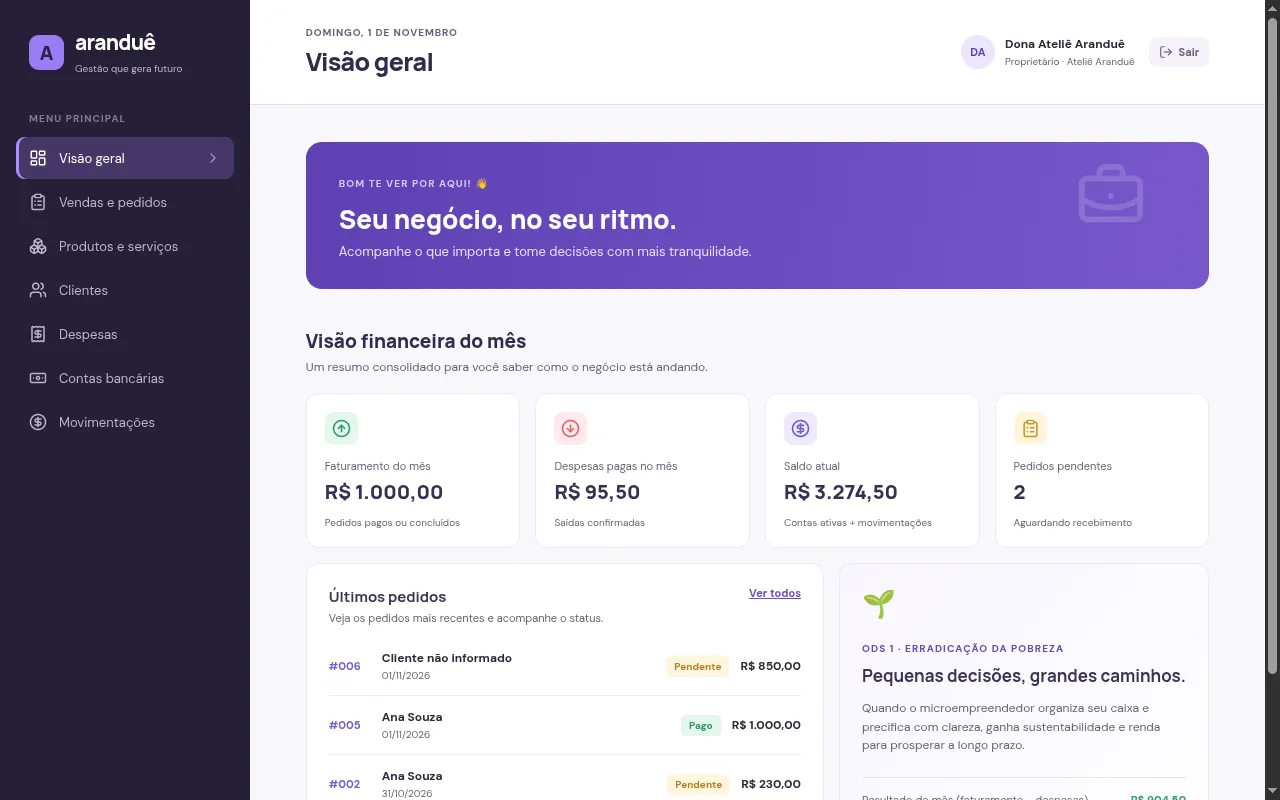
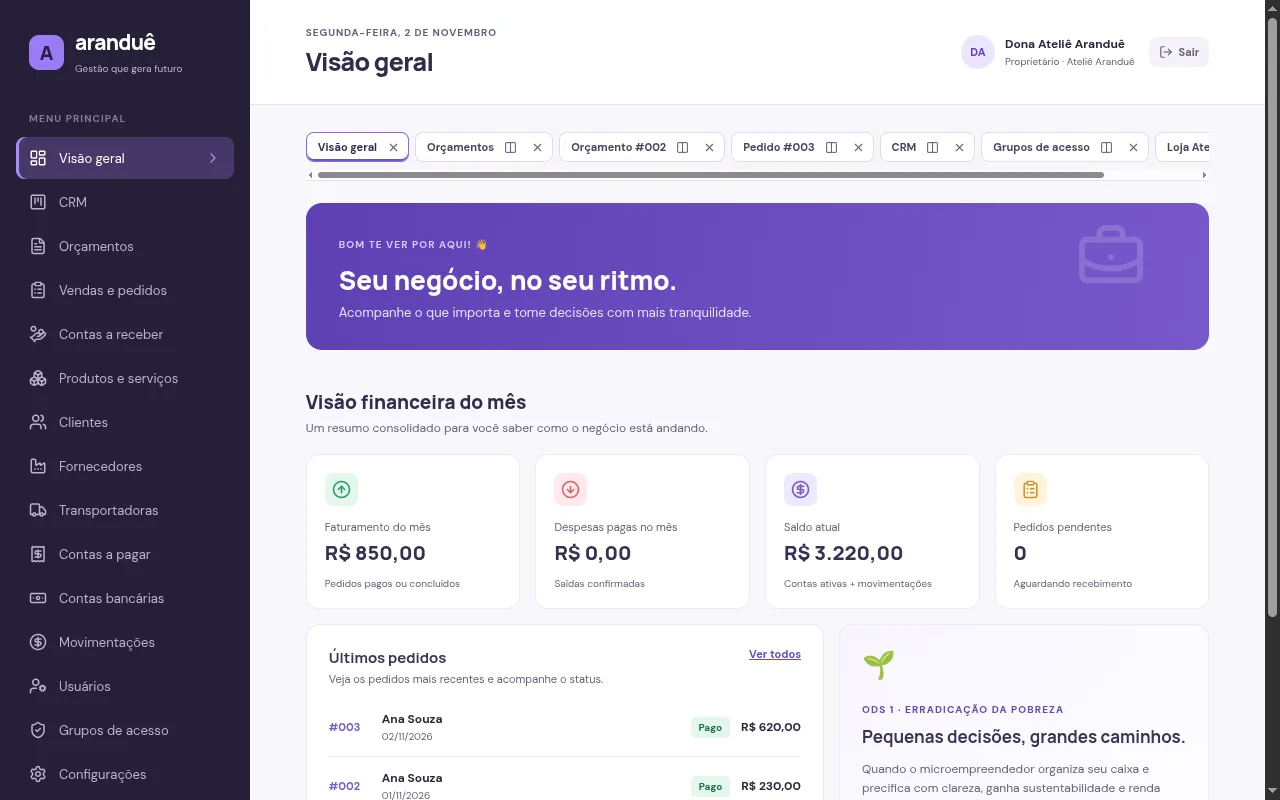
feat: vitrine do Aranduê atualizada para a v2.1 com novas telas
- Sete capturas novas (visão geral, telas lado a lado, menu de ações, CRM,
  grupos de acesso, cadastro de pessoas e celular), com dados fictícios.
- Funcionalidades, números de qualidade (55 testes, acessibilidade 100,
  ~121 KB de JS inicial) e próximas versões atualizados.

diff --git a/projetos/arandue.html b/projetos/arandue.html
@@ -5,7 +5,7 @@
     <meta name="viewport" content="width=device-width, initial-scale=1.0" />
     <meta
       name="description"
-      content="Aranduê: SaaS de gestão para MEIs com vendas, estoque, clientes e caixa, multiempresa e controle de acesso por papel."
+      content="Aranduê: SaaS de gestão para MEIs com orçamentos, vendas, estoque, financeiro, CRM e cadastro de pessoas, multiempresa e com permissões por ação."
     />
     <title>Aranduê · Portfólio Nabor N Silva</title>
     <link rel="shortcut icon" href="../img/favicon.ico" type="image/x-icon" />
@@ -23,12 +23,13 @@
     >
 
     <header class="hero">
-      <p class="eyebrow">Projeto 02 · SaaS full-stack · Em desenvolvimento</p>
+      <p class="eyebrow">Projeto 02 · SaaS full-stack · v2.1 · em evolução contínua</p>
       <h1>Aranduê</h1>
       <p class="lead">
-        Gestão simples para microempreendedores individuais: vendas, estoque,
-        clientes e caixa em um só lugar, com dados isolados por empresa e
-        acesso de acordo com o papel de cada pessoa.
+        Gestão para microempreendedores individuais: orçamentos, vendas,
+        estoque, financeiro, CRM e cadastro de clientes e fornecedores em um só
+        lugar, com dados isolados por empresa e permissões ajustadas a cada
+        pessoa da equipe.
       </p>
       <p class="selo">
         <span aria-hidden="true">🌱</span> Alinhado ao ODS 1 — Erradicação da
@@ -49,27 +50,65 @@
       <section aria-labelledby="titulo-telas">
         <h2 id="titulo-telas">Telas</h2>
         <div class="galeria">
-          <figure class="galeria__principal">
+          <figure class="galeria__larga">
             <img
               src="../img/arandue/dashboard.webp"
-              alt="Visão geral do Aranduê com faturamento do mês, despesas pagas, saldo atual, pedidos pendentes e últimos pedidos."
+              alt="Visão geral do Aranduê com faturamento do mês, despesas pagas, saldo atual, pedidos pendentes e limite anual do MEI."
               width="1280"
               height="800"
               loading="lazy"
             />
-            <figcaption>Visão geral com o resumo financeiro do mês.</figcaption>
+            <figcaption>Visão geral com o resumo financeiro do mês e o acompanhamento do limite do MEI.</figcaption>
+          </figure>
+          <figure class="galeria__larga">
+            <img
+              src="../img/arandue/lado-a-lado.webp"
+              alt="Pedido e o orçamento que o originou abertos lado a lado, com abas das telas abertas no topo."
+              width="1280"
+              height="800"
+              loading="lazy"
+            />
+            <figcaption>Telas abertas viram abas; dá para trabalhar em duas lado a lado, como um pedido e o orçamento de origem.</figcaption>
           </figure>
           <figure>
             <img
-              src="../img/arandue/pedidos.webp"
-              alt="Lista de pedidos com cliente, data, itens, status editável e total."
+              src="../img/arandue/orcamentos.webp"
+              alt="Lista de orçamentos com status e o menu de ações aberto: abrir, aprovar, recusar, duplicar, copiar para pedido e excluir."
               width="1280"
               height="800"
               loading="lazy"
             />
-            <figcaption>
-              Pedidos com vários itens, baixa de estoque e status.
-            </figcaption>
+            <figcaption>Menu de ações que mostra só o que vale para o status e a permissão de cada pessoa.</figcaption>
+          </figure>
+          <figure>
+            <img
+              src="../img/arandue/crm.webp"
+              alt="Funil de vendas em colunas com leads, origem, responsável e próxima ação; ações atrasadas em destaque."
+              width="1280"
+              height="800"
+              loading="lazy"
+            />
+            <figcaption>CRM com funil de vendas, próxima ação e alerta de atraso.</figcaption>
+          </figure>
+          <figure>
+            <img
+              src="../img/arandue/permissoes.webp"
+              alt="Edição de um grupo de acesso com a matriz de permissões por área e por ação."
+              width="1280"
+              height="800"
+              loading="lazy"
+            />
+            <figcaption>Grupos de acesso com permissões por ação (ver, criar, aprovar, dar baixa...).</figcaption>
+          </figure>
+          <figure>
+            <img
+              src="../img/arandue/cadastro.webp"
+              alt="Cadastro de cliente pessoa jurídica com CNPJ, busca na Receita, papéis e contatos."
+              width="1280"
+              height="800"
+              loading="lazy"
+            />
+            <figcaption>Cadastro único de pessoas com busca de CNPJ e CEP.</figcaption>
           </figure>
           <figure class="galeria__celular">
             <img
@@ -91,7 +130,7 @@
           saber quanto entrou, quanto saiu e o que ainda falta receber, fica
           difícil precificar, planejar compras e crescer. O Aranduê reúne essas
           informações em uma interface pensada para quem não é da área de
-          tecnologia.
+          tecnologia, e acompanha o negócio quando ele ganha equipe.
         </p>
       </section>
 
@@ -99,40 +138,65 @@
         <h2 id="titulo-funcionalidades">O que já funciona</h2>
         <ul class="cartoes">
           <li>
+            <strong>Orçamento ao recebimento</strong>
+            <span
+              >Orçamento enviado, aprovado e convertido em pedido; o estoque
+              baixa e o recebimento entra no caixa.</span
+            >
+          </li>
+          <li>
+            <strong>Permissões sob medida</strong>
+            <span
+              >49 permissões por ação em grupos de acesso. Um vendedor pode
+              aprovar os próprios orçamentos enquanto só o financeiro dá
+              baixa.</span
+            >
+          </li>
+          <li>
+            <strong>CRM com funil</strong>
+            <span
+              >Leads por etapa, histórico de atendimentos por canal e lead
+              ganho virando cliente sem duplicar cadastro.</span
+            >
+          </li>
+          <li>
+            <strong>Cadastro único</strong>
+            <span
+              >Clientes, fornecedores e transportadoras num só cadastro, com
+              CPF/CNPJ validados e busca de CNPJ e CEP.</span
+            >
+          </li>
+          <li>
+            <strong>Área de trabalho com abas</strong>
+            <span
+              >Cada tela aberta vira uma aba que guarda o que foi digitado; duas
+              podem ficar lado a lado.</span
+            >
+          </li>
+          <li>
+            <strong>Financeiro</strong>
+            <span
+              >Contas a receber e a pagar, contas bancárias e caixa
+              sincronizado com pedidos e despesas.</span
+            >
+          </li>
+          <li>
             <strong>Multiempresa</strong>
             <span
-              >Cada negócio tem sua conta; os dados de uma empresa nunca
-              aparecem para outra.</span
+              >Os dados de uma empresa nunca aparecem para outra; numeração de
+              pedidos e orçamentos própria.</span
             >
           </li>
           <li>
-            <strong>Papéis de acesso</strong>
+            <strong>Limite do MEI</strong>
             <span
-              >Proprietário, vendedor e contador veem e fazem apenas o que lhes
-              cabe.</span
-            >
-          </li>
-          <li>
-            <strong>Vendas e estoque</strong>
-            <span
-              >Pedidos com vários itens baixam o estoque automaticamente e
-              nunca vendem a mesma unidade duas vezes.</span
-            >
-          </li>
-          <li>
-            <strong>Caixa sincronizado</strong>
-            <span
-              >Pedido pago e despesa paga entram no caixa sozinhos; o saldo
-              fica sempre coerente.</span
+              >O faturamento do ano é comparado com o limite informado pela
+              empresa.</span
             >
           </li>
           <li>
             <strong>Auditoria</strong>
             <span>Registro de quem alterou o quê e quando.</span>
-          </li>
-          <li>
-            <strong>Responsivo</strong>
-            <span>Funciona bem no computador e no celular.</span>
           </li>
         </ul>
       </section>
@@ -154,32 +218,38 @@
         </ul>
         <p>
           O backend concentra as regras de negócio em uma camada de serviços
-          que verifica a permissão e a empresa em toda operação. Os mesmos
-          schemas de validação são usados no navegador e no servidor.
+          que verifica a permissão do grupo e a empresa em toda operação. Os
+          mesmos schemas de validação e o mesmo catálogo de permissões são
+          usados no navegador e no servidor. Cada ação do sistema é definida
+          uma única vez e aparece onde faz sentido: listas, telas e, em breve,
+          busca rápida e atalhos.
         </p>
       </section>
 
       <section aria-labelledby="titulo-qualidade">
         <h2 id="titulo-qualidade">Segurança e qualidade</h2>
         <ul class="numeros">
-          <li><strong>20</strong><span>testes automatizados de integração</span></li>
-          <li><strong>100</strong><span>em acessibilidade no Lighthouse (celular)</span></li>
-          <li><strong>~116 KB</strong><span>de JavaScript inicial (gzip)</span></li>
+          <li><strong>55</strong><span>testes automatizados de integração</span></li>
+          <li><strong>100</strong><span>em acessibilidade no Lighthouse (celular e desktop)</span></li>
+          <li><strong>~121 KB</strong><span>de JavaScript inicial (gzip)</span></li>
         </ul>
         <ul class="lista">
           <li>Senhas com Argon2id e sessão em cookie seguro, revogada no logout.</li>
-          <li>Proteção contra CSRF e limite de tentativas no login.</li>
-          <li>Testes que garantem que uma empresa não acessa dados de outra.</li>
+          <li>Proteção contra CSRF e limite de tentativas no login e nas consultas externas.</li>
+          <li>Testes que garantem que uma empresa não acessa dados de outra e que ninguém concede permissões que não tem.</li>
+          <li>Consultas de CNPJ e CEP feitas pelo servidor: só o número sai do sistema.</li>
         </ul>
       </section>
 
       <section aria-labelledby="titulo-proximos">
-        <h2 id="titulo-proximos">Próximos passos</h2>
+        <h2 id="titulo-proximos">Próximas versões</h2>
         <ol class="roteiro">
-          <li><strong>Orçamentos e equipe:</strong> orçamento que vira pedido, fornecedores e gestão de usuários.</li>
-          <li><strong>CRM e indicadores:</strong> funil de leads e KPIs, como ticket médio e limite anual do MEI.</li>
-          <li><strong>Assistente de IA:</strong> chat de ajuda e bot no Telegram com confirmação antes de gravar.</li>
+          <li><strong>Oportunidades e rastreio:</strong> cada orçamento e pedido ligado à negociação que o originou, mesmo quando duplicado ou copiado.</li>
           <li><strong>Publicação:</strong> deploy em São Paulo e demo ao vivo nesta página.</li>
+          <li><strong>Produtividade:</strong> busca rápida, atalhos de teclado e filtros avançados.</li>
+          <li><strong>Documentos:</strong> orçamentos em seções, parcelas e impressão em PDF e DOCX.</li>
+          <li><strong>Gestão:</strong> assistente de precificação e painel com indicadores personalizáveis.</li>
+          <li><strong>Assistente de IA:</strong> chat de ajuda e bot no Telegram com confirmação antes de gravar.</li>
         </ol>
       </section>
     </main>

diff --git a/index.html b/index.html
@@ -48,8 +48,8 @@
           <span class="botao-projeto__eyebrow">Projeto 02 · SaaS full-stack</span>
           <span class="botao-projeto__texto">Aranduê</span>
           <span class="botao-projeto__descricao"
-            >Vendas, estoque, clientes e caixa para MEIs, com multiempresa e
-            controle de acesso.</span
+            >Orçamentos, vendas, financeiro e CRM para MEIs, com multiempresa
+            e permissões para cada pessoa da equipe.</span
           >
           <span class="botao-projeto__acao"
             >Conhecer projeto <span aria-hidden="true">→</span></span

diff --git a/projetos/arandue/css/style.css b/projetos/arandue/css/style.css
@@ -159,8 +159,8 @@ section > p {
 
 .galeria {
   display: grid;
-  grid-template-columns: 2fr 1fr;
-  gap: 1rem;
+  grid-template-columns: repeat(2, minmax(0, 1fr));
+  gap: 1.2rem;
 }
 
 .galeria figure {
@@ -182,7 +182,8 @@ section > p {
   font-size: 0.85rem;
 }
 
-.galeria__principal {
+.galeria__larga,
+.galeria__celular {
   grid-column: 1 / -1;
 }
 

diff --git a/README.md b/README.md
@@ -6,8 +6,9 @@
 Este repositório reúne a evolução do meu portfólio pessoal e os projetos
 apresentados nele:
 
-- **Aranduê** *(projeto em destaque)* — SaaS de gestão para MEIs, com vendas,
-  estoque, clientes e caixa, multiempresa e controle de acesso por papel. O
+- **Aranduê** *(projeto em destaque, v2.1)* — SaaS de gestão para MEIs, com
+  orçamentos, vendas, estoque, financeiro, CRM e cadastro de pessoas,
+  multiempresa e com permissões por ação em grupos de acesso. O
   código fica em [nabornasc/Projeto-Final-Arandu-e-Recode](https://github.com/nabornasc/Projeto-Final-Arandu-e-Recode).
 - **Minha Calculadora** — calculadora web, atualmente na versão **0.1**.
 
